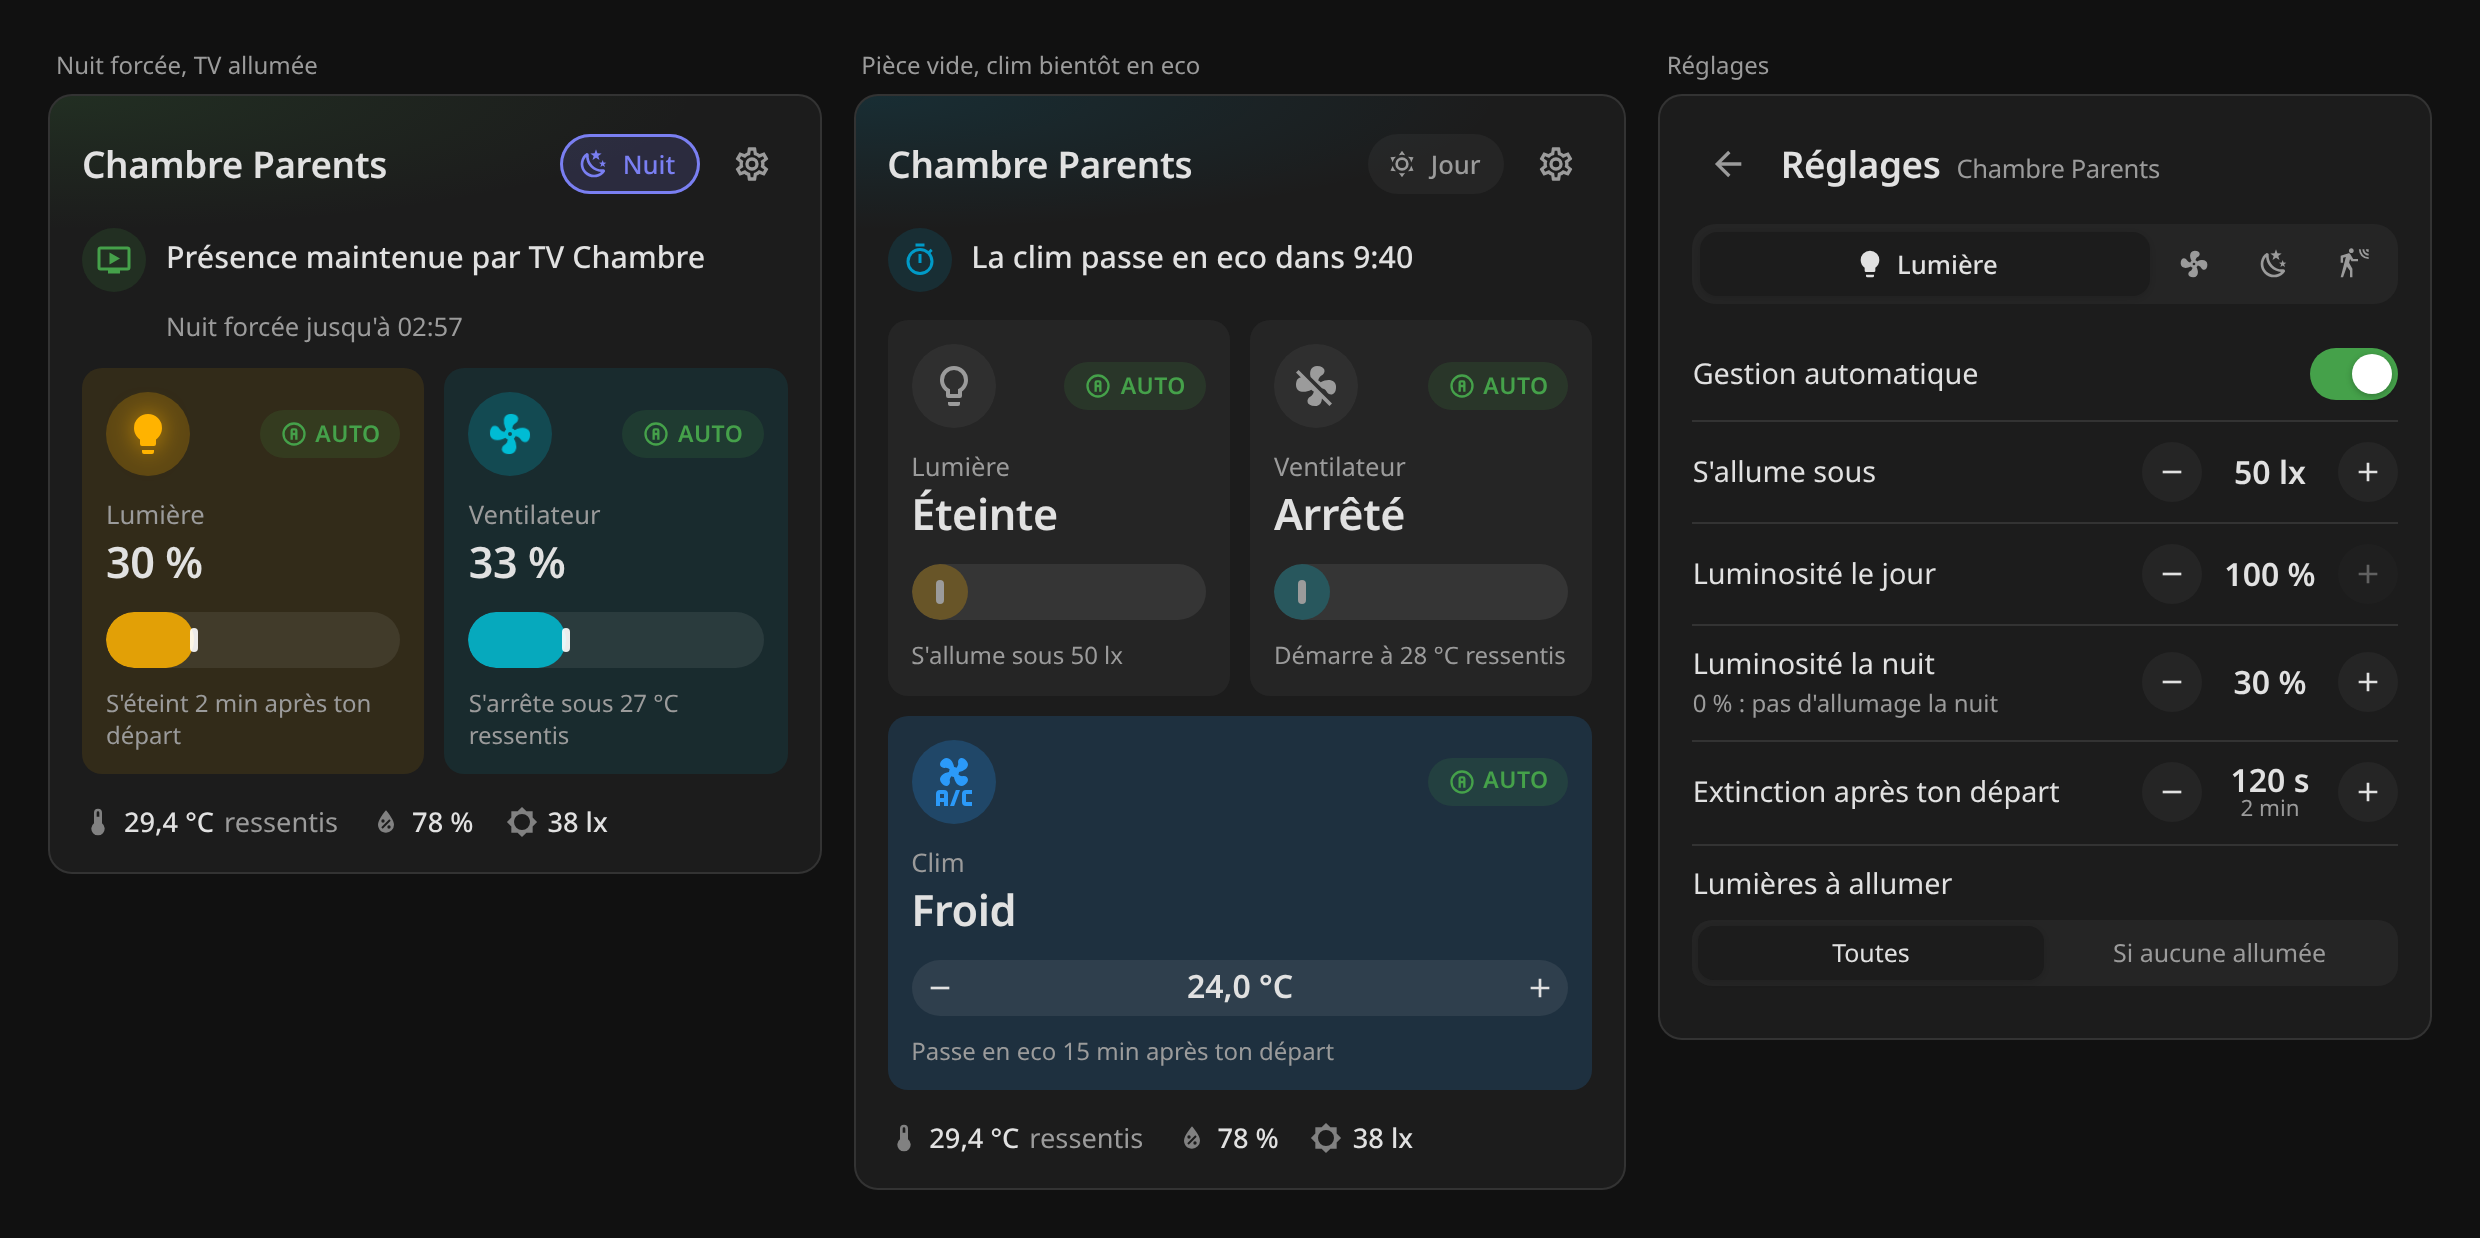
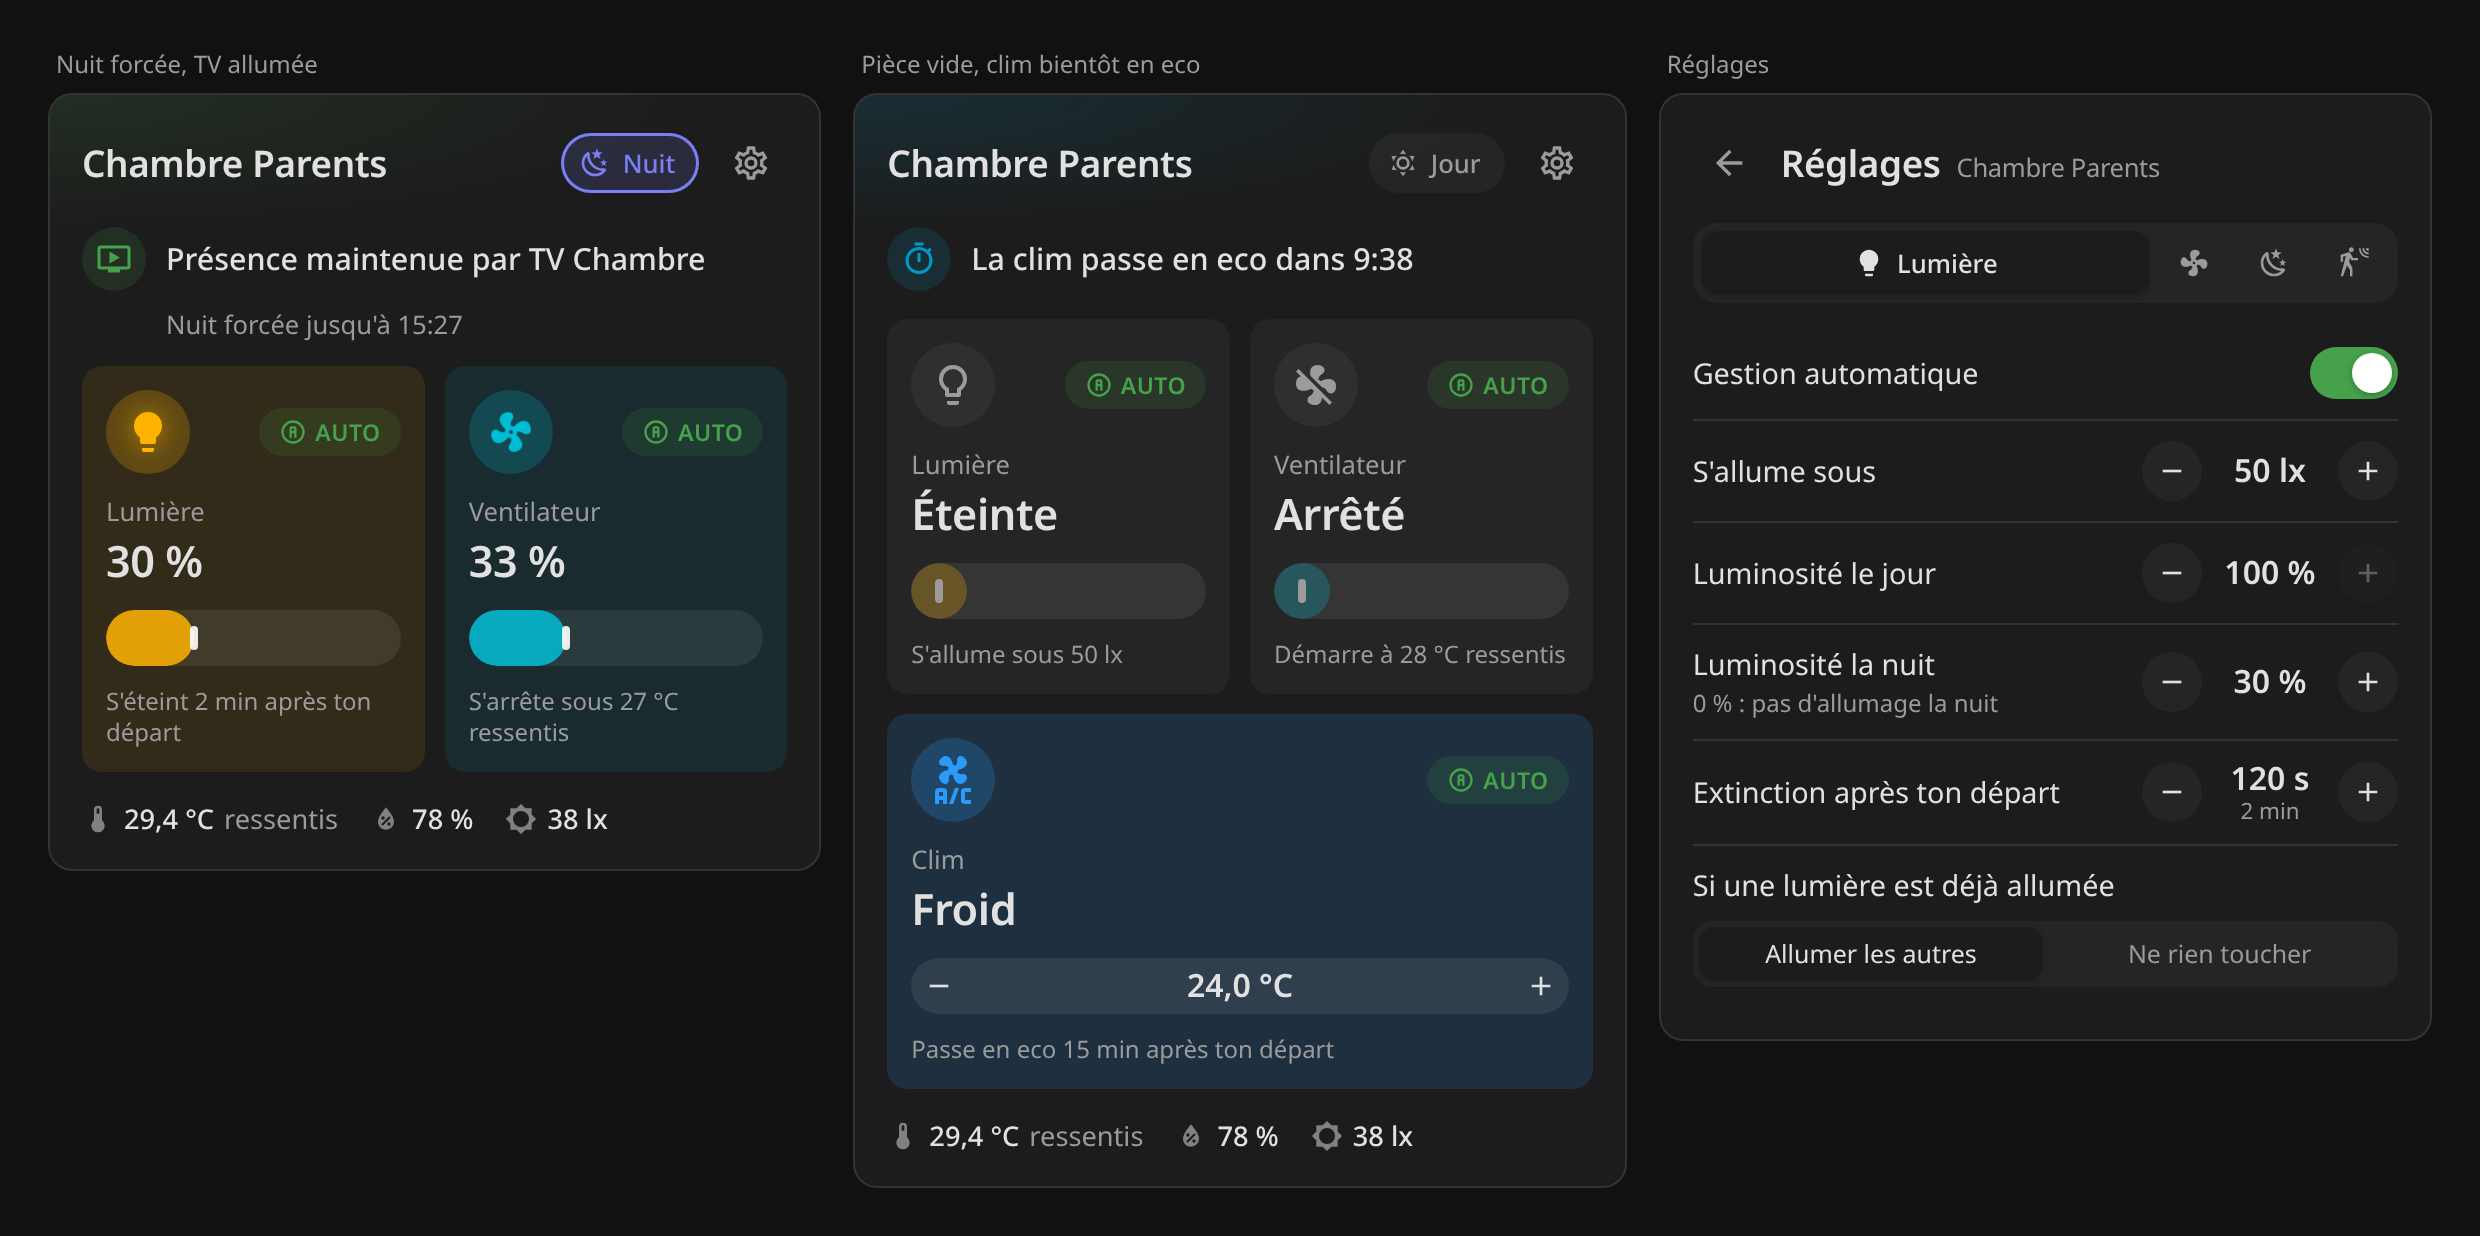
v0.3.4 : captures du README mises à jour
Les aperçus clair et sombre sont régénérés depuis la démo avec la carte
actuelle, dont les nouveaux libellés des réglages de la lumière.

diff --git a/dist/lumina-card.js b/dist/lumina-card.js
@@ -1,4 +1,4 @@
-/*! Lumina Card 0.3.3 — https://github.com/phabrys/lumina-card — MIT
+/*! Lumina Card 0.3.4 — https://github.com/phabrys/lumina-card — MIT
  * Icônes : Material Design Icons (Apache 2.0). Fichier généré, ne pas modifier :
  * les sources sont dans src/. */
 // --- icons.ts ---
@@ -2323,5 +2323,5 @@ if (typeof customElements !== "undefined") {
             documentationURL: "https://github.com/phabrys/lumina-card",
         });
     }
-    console.info(`%c LUMINA-CARD %c ${"0.3.3"} `, "color:#fff;background:#f2a93b;font-weight:700;border-radius:3px 0 0 3px", "color:#f2a93b;background:#222;border-radius:0 3px 3px 0");
+    console.info(`%c LUMINA-CARD %c ${"0.3.4"} `, "color:#fff;background:#f2a93b;font-weight:700;border-radius:3px 0 0 3px", "color:#f2a93b;background:#222;border-radius:0 3px 3px 0");
 }

diff --git a/CHANGELOG.md b/CHANGELOG.md
@@ -1,5 +1,9 @@
 # Changelog
 
+## 0.3.4 — 2026-10-22
+
+- README : captures d'écran mises à jour (nouveaux libellés des réglages de la lumière).
+
 ## 0.3.3 — 2026-10-22
 
 - Réglages : sous « Extinction à la main la nuit », l'aide décrit l'option choisie (Manuel, Salon ou Chambre) au lieu de ne parler que de Chambre.
